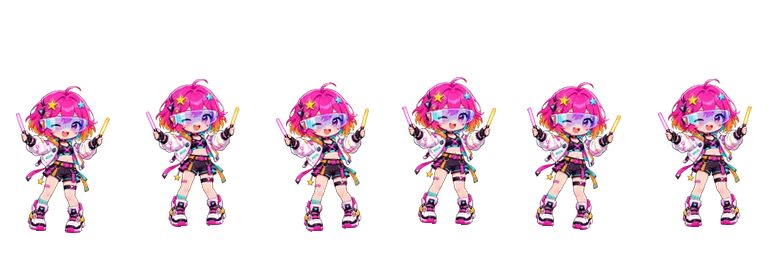
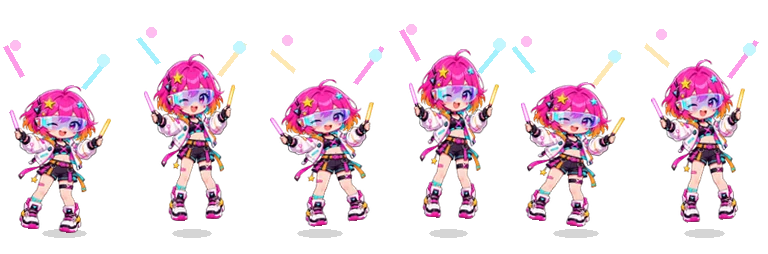
Shuffle radio pack and animate left stage

diff --git a/public/styles.css b/public/styles.css
@@ -124,15 +124,23 @@ input {
 .chaos-layer b:nth-child(11) { left: 80%; top: 74%; animation-delay: -0.9s; }
 .chaos-layer b:nth-child(12) { left: 28%; top: 84%; animation-delay: -2.7s; }
 
-.mini-dancer {
+.mini-dancer,
+.mini-left-dancer {
   position: absolute;
   width: 128px;
   height: 254px;
-  background-image: url("/assets/open-wire-dancer.webp");
   background-size: 768px 254px;
   opacity: 0.22;
   transform-origin: 50% 100%;
   animation: dance 0.72s steps(6) infinite, mini-float 4.8s ease-in-out infinite;
+}
+
+.mini-dancer {
+  background-image: url("/assets/open-wire-dancer.webp");
+}
+
+.mini-left-dancer {
+  background-image: url("/assets/open-wire-left-dancer.webp");
 }
 
 .mini-dancer-one {
@@ -153,6 +161,22 @@ input {
   top: 12vh;
   transform: scale(0.28) rotate(-8deg);
   animation-delay: -0.48s, -3.1s;
+}
+
+.mini-left-dancer-one {
+  left: 71vw;
+  top: 36vh;
+  opacity: 0.18;
+  transform: scale(0.32) rotate(-12deg);
+  animation-delay: -0.36s, -1.8s;
+}
+
+.mini-left-dancer-two {
+  left: 30vw;
+  bottom: -72px;
+  opacity: 0.2;
+  transform: scale(0.4) rotate(8deg);
+  animation-delay: -0.6s, -3.8s;
 }
 
 .shell {
@@ -420,9 +444,13 @@ h1 {
 
 .left-mascot {
   position: fixed;
-  right: min(calc(50% + 398px), calc(100vw - 160px));
+  right: min(calc(50% + 398px), calc(100vw - 226px));
   bottom: 28px;
   z-index: 4;
+  display: grid;
+  grid-template-columns: 36px 128px 36px;
+  align-items: end;
+  gap: 6px;
   pointer-events: none;
   filter: drop-shadow(0 18px 24px rgba(0, 0, 0, 0.36));
 }
@@ -536,7 +564,7 @@ h1 {
   .left-mascot {
     transform: scale(0.72);
     transform-origin: bottom right;
-    right: min(calc(50% + 318px), calc(100vw - 118px));
+    right: min(calc(50% + 318px), calc(100vw - 166px));
   }
 }
 
@@ -580,7 +608,8 @@ h1 {
     display: none;
   }
 
-  .mini-dancer {
+  .mini-dancer,
+  .mini-left-dancer {
     display: none;
   }
 }

diff --git a/server.js b/server.js
@@ -9,6 +9,16 @@ const port = process.env.PORT || 3000;
 
 const clients = new Map();
 const radioStart = Date.parse("2026-07-02T00:00:00.000Z");
+const radioTracks = shuffle([
+  "/assets/hyper-glitter-dream.mp3",
+  "/assets/glitchy-shiny-hearts.mp3",
+  "/assets/digital-heartbeat-burst.mp3",
+  "/assets/system-offline.mp3",
+  "/assets/digital-static-shards.mp3",
+  "/assets/digital-neural-flow.mp3",
+  "/assets/resonant-signal.mp3",
+  "/assets/dual-grid-signals.mp3"
+]);
 const roomLimit = 8;
 const rooms = [
   { id: "neon-lobby", name: "Neon Lobby", history: [] },
@@ -23,6 +33,15 @@ app.use(express.static("public"));
 
 function cleanText(value, maxLength) {
   return String(value ?? "").replace(/\s+/g, " ").trim().slice(0, maxLength);
+}
+
+function shuffle(items) {
+  const shuffled = [...items];
+  for (let index = shuffled.length - 1; index > 0; index -= 1) {
+    const swapIndex = Math.floor(Math.random() * (index + 1));
+    [shuffled[index], shuffled[swapIndex]] = [shuffled[swapIndex], shuffled[index]];
+  }
+  return shuffled;
 }
 
 function roomCount(roomId) {
@@ -95,7 +114,8 @@ wss.on("connection", (socket) => {
     history: room.history,
     radio: {
       start: radioStart,
-      serverTime: Date.now()
+      serverTime: Date.now(),
+      tracks: radioTracks
     }
   }));
   broadcastPresence();

diff --git a/public/app.js b/public/app.js
@@ -7,12 +7,15 @@ const statusDot = document.querySelector("#status-dot");
 const template = document.querySelector("#message-template");
 const musicButton = document.querySelector("#music");
 const roomSelect = document.querySelector("#room");
-const tracks = [
+let tracks = [
   { src: "/assets/hyper-glitter-dream.mp3", duration: 0 },
   { src: "/assets/glitchy-shiny-hearts.mp3", duration: 0 },
   { src: "/assets/digital-heartbeat-burst.mp3", duration: 0 },
   { src: "/assets/system-offline.mp3", duration: 0 },
-  { src: "/assets/digital-static-shards.mp3", duration: 0 }
+  { src: "/assets/digital-static-shards.mp3", duration: 0 },
+  { src: "/assets/digital-neural-flow.mp3", duration: 0 },
+  { src: "/assets/resonant-signal.mp3", duration: 0 },
+  { src: "/assets/dual-grid-signals.mp3", duration: 0 }
 ];
 const musicTrack = new Audio(tracks[0].src);
 
@@ -137,6 +140,12 @@ function connect() {
       if (data.radio) {
         radioStart = data.radio.start;
         serverOffset = data.radio.serverTime - Date.now();
+        if (Array.isArray(data.radio.tracks) && data.radio.tracks.length) {
+          tracks = data.radio.tracks.map((src) => ({ src, duration: 0 }));
+          loadTrackDurations().then(() => {
+            if (musicButton.getAttribute("aria-pressed") === "true") tuneRadio();
+          });
+        }
       }
 
       if (!myName) {

diff --git a/public/index.html b/public/index.html
@@ -46,6 +46,8 @@
       <div class="mini-dancer mini-dancer-one"></div>
       <div class="mini-dancer mini-dancer-two"></div>
       <div class="mini-dancer mini-dancer-three"></div>
+      <div class="mini-left-dancer mini-left-dancer-one"></div>
+      <div class="mini-left-dancer mini-left-dancer-two"></div>
     </div>
 
     <main class="shell" aria-label="Open Wire chat room">
@@ -79,7 +81,9 @@
       </section>
 
       <aside class="left-mascot" aria-hidden="true">
+        <div class="speaker speaker-left"></div>
         <div class="left-dancer"></div>
+        <div class="speaker speaker-right"></div>
       </aside>
 
       <aside class="mascot" aria-hidden="true">